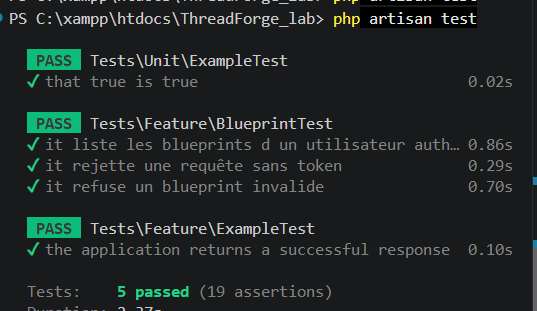
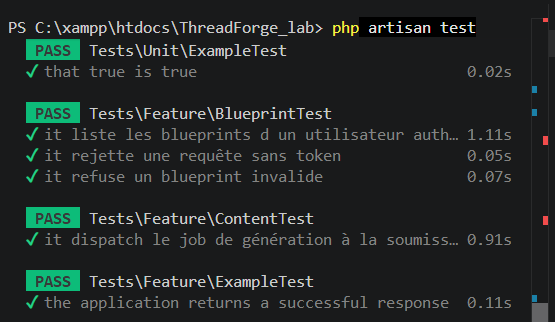
add test lab 8

diff --git a/tests/Feature/ContentTest.php b/tests/Feature/ContentTest.php
@@ -1,0 +1,35 @@
+<?php
+
+use App\Jobs\GeneratePostJob;
+use App\Models\User;
+use Illuminate\Foundation\Testing\RefreshDatabase;
+use Illuminate\Support\Facades\Queue;
+use Laravel\Sanctum\Sanctum;
+
+uses(RefreshDatabase::class);
+
+it('dispatch le job de génération à la soumission', function () {
+
+    Queue::fake();
+
+    $user = User::factory()->create();
+
+    Sanctum::actingAs($user);
+
+    $blueprint = $user->blueprints()->create([
+        'name' => 'Test',
+        'target_audience' => 'Developers',
+        'tone' => 'Professional',
+        'max_characters' => 280,
+        'max_hashtags' => 3,
+    ]);
+
+    $response = $this->postJson('/api/content/repurpose', [
+        'blueprint_id' => $blueprint->id,
+        'raw_content' => 'Mes notes de Laravel.',
+    ]);
+
+    $response->assertStatus(202);
+
+    Queue::assertPushed(GeneratePostJob::class);
+});
